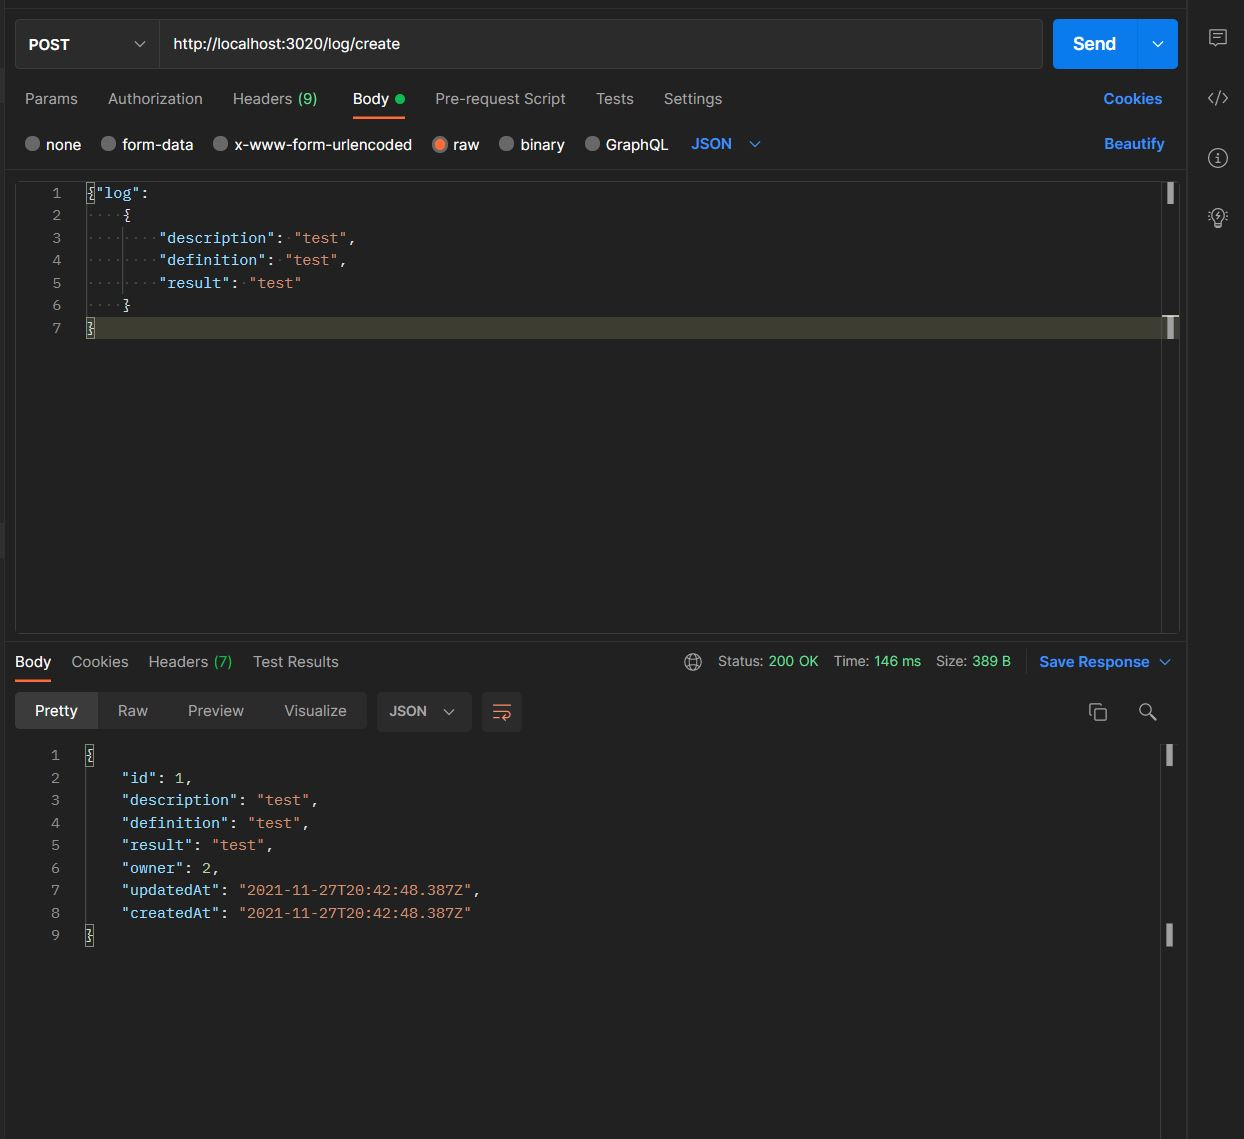
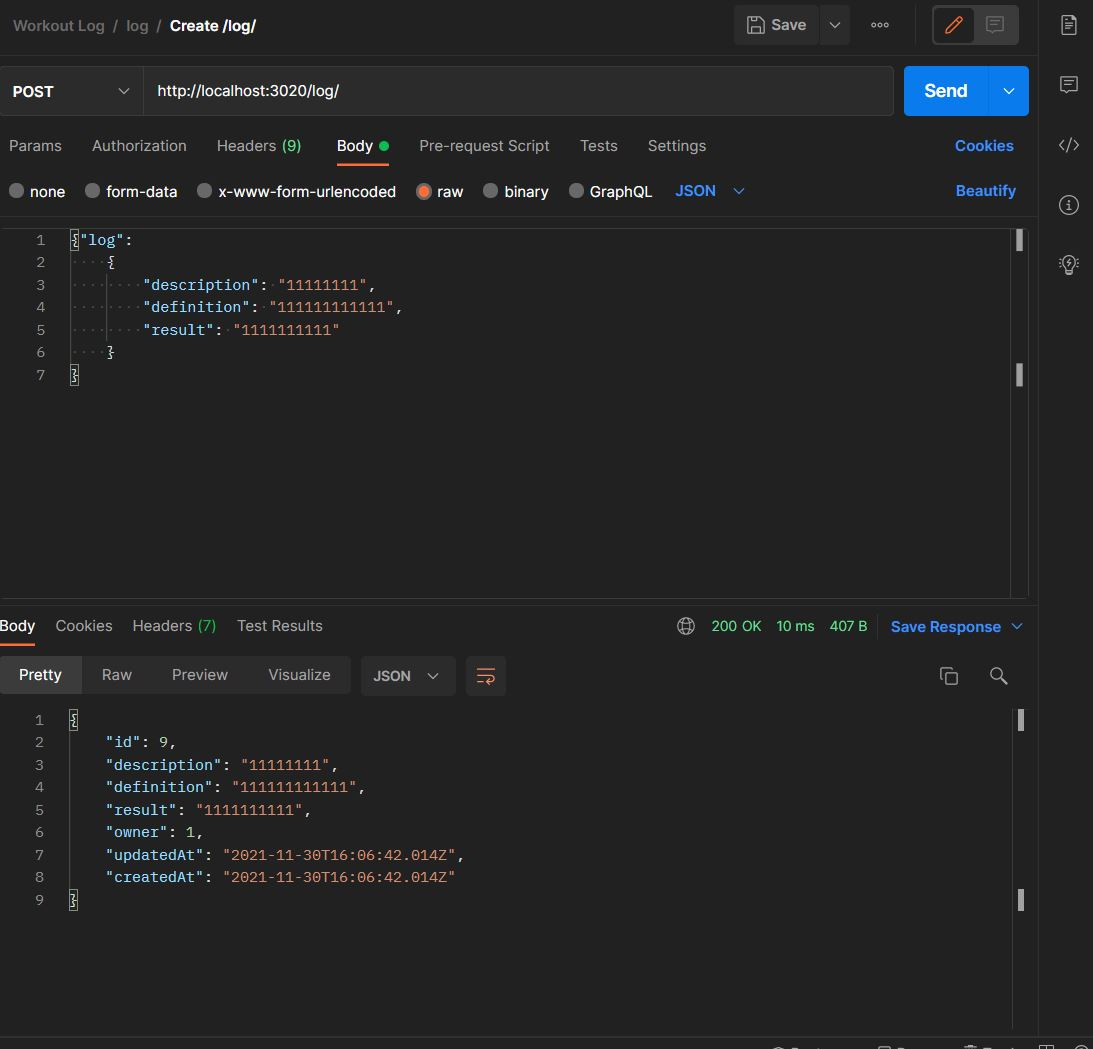
Updaeted README and log controller

diff --git a/Projects/WorkoutLog/server/controllers/logcontroller.js b/Projects/WorkoutLog/server/controllers/logcontroller.js
@@ -12,7 +12,7 @@ router.get('/practice', validateJWT, (req, res) => {
 // })
 
 //! create log
-router.post('/create', validateJWT, async (req, res) => {
+router.post('/', validateJWT, async (req, res) => {
     // console.log(req.body.log)
     // console.log(req.user)
     const { description, definition, result } = req.body.log;
@@ -34,18 +34,18 @@ router.post('/create', validateJWT, async (req, res) => {
 });
 
 // //! GET all entries
-// router.get("/", async (req, res) => {
-//     try {
-//         const entries = await LogModel.findAll();
-//         res.status(200).json(entries);
-//     } catch (err) {
-//         res.status(500).json({ error: err });
-//     }
-// });
+router.get("/:all", async (req, res) => {
+    try {
+        const entries = await LogModel.findAll();
+        res.status(200).json(entries);
+    } catch (err) {
+        res.status(500).json({ error: err });
+    }
+});
 
 
 //! GET all logs for user
-router.get("/mine", validateJWT, async (req, res) => {
+router.get("/", validateJWT, async (req, res) => {
     let { id } = req.user;
     try {
         const userLogs = await LogModel.findAll({
@@ -73,7 +73,7 @@ router.get("/:id", async (req, res) => {
 });
 
 //! PUT updating a Log entry
-router.put("/update/:logId", validateJWT, async (req, res) => {
+router.put("/:logId", validateJWT, async (req, res) => {
     const { description, definition, result } = req.body.log;
     const logId = req.params.logId;
     const userId = req.user.id;
@@ -93,14 +93,23 @@ router.put("/update/:logId", validateJWT, async (req, res) => {
 
     try {
         const update = await LogModel.update(updatedLog, query);
-        res.status(200).json(update);
-    } catch (err) {
-        res.status(500).json({ error: err });
+    //     res.status(200).json(update);
+    // } catch (err) {
+    //     res.status(500).json({ error: err });
+    res.status(200).json({
+        message: "Log updated",
+        update
+    })
+} catch (err) {
+    res.status(500).json({
+        message: "Failed to update Log",
+        error: err
+    })
     }
 });
 
 // //! DELETE a Log
-router.delete("/delete/:id", validateJWT, async (req, res) => {
+router.delete("/:id", validateJWT, async (req, res) => {
     try {
         await LogModel.destroy({
             where: {

diff --git a/Projects/WorkoutLog/README.md b/Projects/WorkoutLog/README.md
@@ -1,31 +1,25 @@
 # WD-workoutLog
 
-## Please see below for images of endpoint & tokens, etc.
+#### POST | /user/register | Create user with username/login.
+<img src= "assets/UserRegister.JPG" width = 100%>
 
-### Endpoints:
-Endpoint | Verb | Description
--------- | ---- | -----------
+#### POST | /user/login | Log in with an existing user.
+<img src= "assets/UserLogin.JPG" width = 100%>
 
-#### 1. /user/register | POST | Allows a new user to be created with a username and password.
-<img src= "assets/UserRegister.JPG" width = 80%>
+#### POST | /log/ | Create Log..
+<img src= "assets/CreateLog.JPG" width = 100%>
 
-#### 2. /user/login | POST | Allows log in with an existing user.
-<img src= "images/logUserLogin.jpg" width = 80%>
+#### GET | /log/ | Gets all logs for user.
+<img src= "assets/GetLogsByUser.JPG" width = 100%>
 
-#### 3. /log/ | POST | Allows users to create a workout log with descriptions, definitions, results, and owner properties.
-<img src= "images/logCreate2.jpg" width = 80%>
+#### GET | /log/:id | Gets individual logs by id for user.
+<img src= "assets/UserLogByID.JPG" width = 100%>
 
-#### 4. /log/ | GET | Gets all logs for an individual user.
-<img src= "images/getMyLogEntries.jpg" width = 80%>
+#### PUT | /log/:id | Update log by user.
+<img src= "assets/UpdateUserLog.JPG" width = 100%>
 
-#### 5. /log/:id | GET | Gets individual logs by id for an individual user.
-<img src= "images/getLogsByUserId.jpg" width = 80%>
+#### DELETE | /log/:id | Delete user log by id.
+<img src= "assets/DeleteLog.JPG" width = 100%>
 
-#### 6. /log/:id |	PUT | Allows individual logs to be updated by a user.
-<img src= "images/putLogByLogId.jpg" width = 80%>
-
-#### 7. /log/:id |	DELETE | Allows individual logs to be deleted by a user.
-<img src= "images/DelLogByLogId2.jpg" width = 80%>
-
-#### 8. /log/all |	GET | Gets all logs. Demonstrating additional endpoint and that must have a token to access.
-<img src= "images/getAllLogs-NotAuth.jpg" width = 80%>
+#### GET | /log/all | Gets all logs.
+<img src= "GetAllLogs.JPG" width = 80%>
